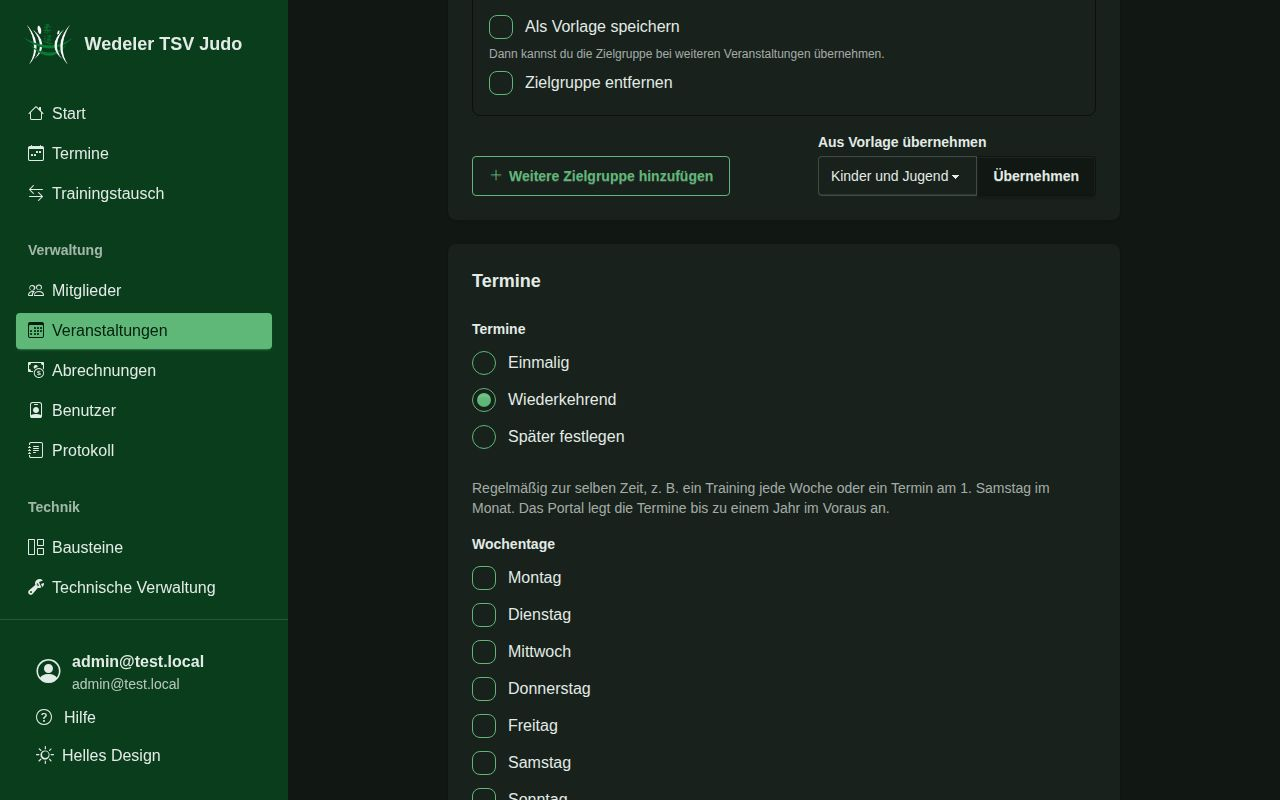
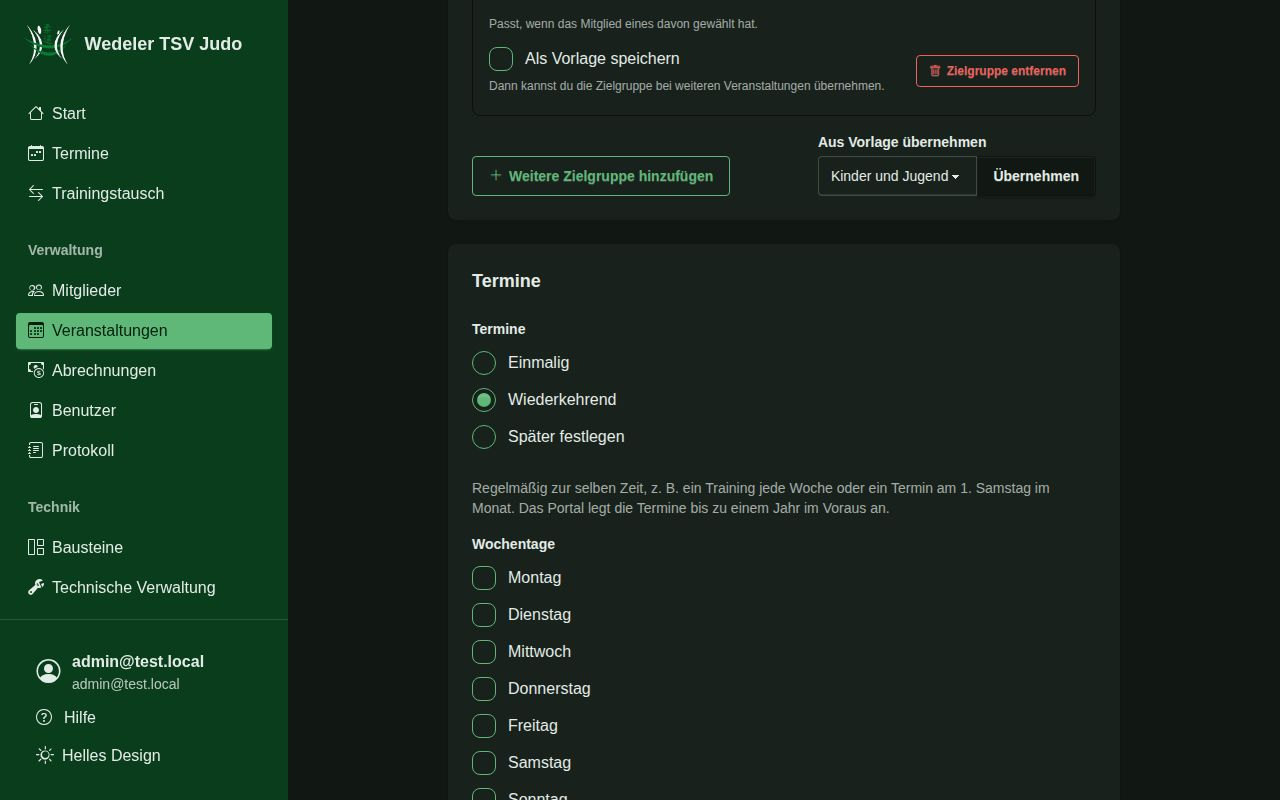
feat: Zielgruppe per Knopf entfernen statt per Kästchen
Jede Zielgruppe hat unten rechts den roten Knopf „Zielgruppe entfernen“. Er blendet den Block aus;
wie beim Hinzufügen gilt das Entfernen mit „Speichern“. Ohne JavaScript bleibt das Kästchen des
Formsets.

Claude-Session: https://claude.ai/code/session_017LHgXea5AxfRcr57bsDwjB

Changed region(s): [[0.375, 0.0, 0.6875, 0.125], [0.7188, 0.0625, 0.8438, 0.125]]

diff --git a/portal/static/js/target-groups.js b/portal/static/js/target-groups.js
@@ -1,5 +1,6 @@
-// Zielgruppen im Formular der Veranstaltung: Blöcke hinzufügen und Vorlagen als Kopie übernehmen.
-// Ohne JavaScript lassen sich bestehende Zielgruppen weiter bearbeiten und entfernen.
+// Zielgruppen im Formular der Veranstaltung: Blöcke hinzufügen, entfernen und Vorlagen als Kopie übernehmen.
+// „Zielgruppe entfernen“ setzt das versteckte Löschfeld des Formsets und blendet den Block aus. Ohne JavaScript bleibt
+// stattdessen das Kästchen.
 (() => {
   const section = document.querySelector("[data-target-groups]");
   if (!section) return;
@@ -11,12 +12,35 @@
   const dataElement = document.getElementById("zielgruppen-vorlagen");
   const templates = dataElement ? JSON.parse(dataElement.textContent) : {};
 
+  // Kästchen „Löschen“ gegen den Knopf tauschen
+  const prepare = (block) => {
+    const box = block.querySelector("[data-target-group-delete]");
+    const button = block.querySelector("[data-target-group-remove]");
+    if (!box || !button) return;
+    box.hidden = true;
+    button.hidden = false;
+  };
+
+  // Wie beim Hinzufügen gilt das Entfernen erst mit „Speichern“: der Block verschwindet, das Löschfeld ist gesetzt.
+  const remove = (block) => {
+    block.querySelector("[data-target-group-delete] input[type=checkbox]").checked = true;
+    block.hidden = true;
+    section.querySelector("[data-target-group-add]")?.focus();
+  };
+
+  list.addEventListener("click", (event) => {
+    const button = event.target.closest("[data-target-group-remove]");
+    if (button) remove(button.closest("[data-target-group]"));
+  });
+  for (const block of list.querySelectorAll("[data-target-group]")) prepare(block);
+
   const add = () => {
     const index = Number(total.value);
     const html = empty.innerHTML.replaceAll("__prefix__", String(index));
     list.insertAdjacentHTML("beforeend", html);
     total.value = String(index + 1);
     const block = list.lastElementChild;
+    prepare(block);
     return { block, field: (name) => block.querySelectorAll(`[name="${prefix}-${index}-${name}"]`) };
   };
 

diff --git a/e2e/veranstaltungen.spec.ts b/e2e/veranstaltungen.spec.ts
@@ -89,6 +89,12 @@ test("Lehrgang anlegen, Übungsleiter eintragen, Kind mit Gewicht anmelden, Trai
   await admin.getByRole("button", { name: "Für diesen Termin anpassen" }).click();
   await expect(admin.getByLabel("Bezeichnung")).toHaveValue("Kinder und Jugend");
   await admin.getByLabel("Alter bis").fill("12");
+  // Entfernen per Knopf statt Kästchen; wie das Hinzufügen gilt es mit „Speichern“
+  await expect(admin.getByRole("checkbox", { name: "Zielgruppe entfernen" })).toHaveCount(0);
+  await admin.getByRole("button", { name: "Weitere Zielgruppe hinzufügen" }).click();
+  await admin.getByLabel("Bezeichnung").nth(1).fill("Zu viel");
+  await admin.getByRole("button", { name: "Zielgruppe entfernen" }).nth(1).click();
+  await expect(admin.getByLabel("Bezeichnung").nth(1)).toBeHidden();
   await expectNoA11yViolations(admin);
   await admin.getByRole("button", { name: "Speichern" }).click();
   await expect(admin.getByText("Zielgruppen für diesen Termin gespeichert.")).toBeVisible();

diff --git a/portal/events/templates/events/_target_group.html b/portal/events/templates/events/_target_group.html
@@ -8,5 +8,11 @@
   <div class="grid gap-x-4 sm:grid-cols-2">{{ form.min_weight.as_field_group }}{{ form.max_weight.as_field_group }}</div>
   <div class="grid gap-x-4 sm:grid-cols-2">{{ form.min_grade.as_field_group }}{{ form.max_grade.as_field_group }}</div>
   {{ form.interests.as_field_group }}
-  <div class="flex flex-wrap gap-x-6">{% if form.save_as_template %}{{ form.save_as_template.as_field_group }}{% endif %}{{ form.DELETE.as_field_group }}</div>
+  <div class="flex flex-wrap items-center justify-between gap-x-6 gap-y-2">
+    <div>{% if form.save_as_template %}{{ form.save_as_template.as_field_group }}{% endif %}</div>
+    {% if form.DELETE %}
+    <div data-target-group-delete>{{ form.DELETE.as_field_group }}</div>
+    <button type="button" class="btn btn-outline btn-error btn-sm" data-target-group-remove hidden><i class="bi bi-trash" aria-hidden="true"></i> Zielgruppe entfernen</button>
+    {% endif %}
+  </div>
 </fieldset>

diff --git a/portal/events/tests/test_target_groups.py b/portal/events/tests/test_target_groups.py
@@ -113,6 +113,7 @@ def test_form_offers_templates(client, head):
     page = client.get(reverse("event_create")).content.decode()
     assert "Aus Vorlage übernehmen" in page
     assert '"min_weight": "60,5"' in page
+    assert "data-target-group-remove" in page and "Zielgruppe entfernen</button>" in page  # Knopf statt Kästchen
 
 
 def test_preview_only_for_managers(client, head, trainer, child):
